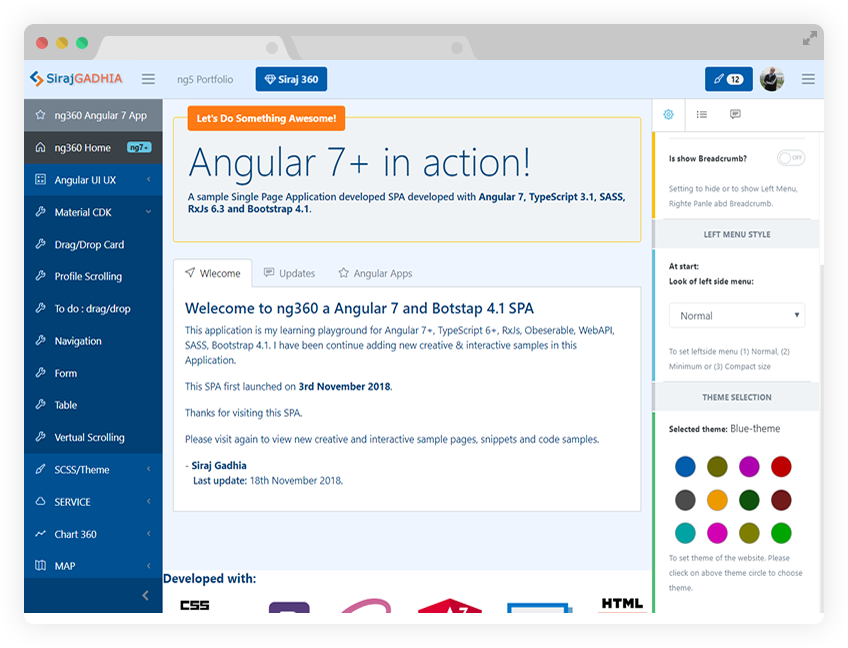
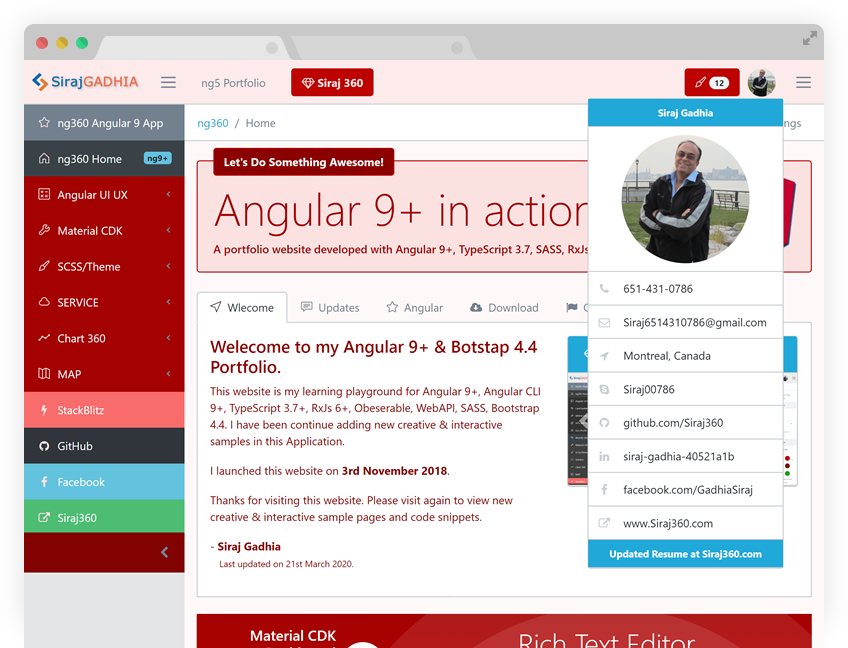
Updated for anagular 9 changes
SirajGadhia.com portfolio updated with anagular 9.

diff --git a/index.html b/index.html
@@ -125,11 +125,14 @@
             <div class="row text-center-mobile">
               <div class="col-md-6">
                 <div class="icon"><i class="pe-7s-magic-wand"></i></div>
-                <h2>Angular 7+ And Material</h2>
-                <p>A sample single page application (SPA) developed with Angular 7+, Material, CDK, SASS and Bootstrap 4+. </p>
+                <h2>Angular 9+ And Material</h2>
+                <p>A sample single page portfolio application (SPA) developed with Angular 9+, Material, CDK, TypeScript, SASS and Bootstrap 4+. </p>
                 <p>Visit this online application to review creative an innovative samples at </br>
                   <a href="http://www.SirajGadhia.com" target="_blank">
                     www.SirajGadhia.com </a>
+                </p>
+                <p>
+                  <a class="btn btn-ghost" href="http://www.SirajGadhia.com" target="_blank">Visit Angular 9+ Portfolio Online</a>
                 </p>
             </div>
               <div class="col-md-6">
@@ -148,14 +151,14 @@
           </div>
           <div class="col-md-6">
             <div class="icon brand-terciary"><i class="pe-7s-rocket"></i></div>
-            <h2>Angular 5+ in action!</h2>
-            <p>A sample single page application developed with Angular 5+, TypeScript, SASS and Bootstrap 4+.</p>
+            <h2>Angular 5.3 in action!</h2>
+            <p>A sample single page portfolio application developed with Angular 5.3, TypeScript, SASS and Bootstrap 4.</p>
             <p>Code snippets/files are at
               <a href="https://gist.github.com/SirajGadhia" target="_blank">https://gist.github.com/SirajGadhia</a>
             </p>
 
             <p>
-              <a class="btn btn-ghost" href="http://www.GadhiaSiraj.com" target="_blank">Visit Angular 5 Online SPA</a>
+              <a class="btn btn-ghost" href="http://www.GadhiaSiraj.com" target="_blank">Visit Angular 5 Online</a>
             </p>
 
           </div>
@@ -170,7 +173,7 @@
             <div class="icon brand-secondary"><i class="pe-7s-id"></i></div>
             <h3>Responsive Web Design</h3>
             <p class="text-gray-light">
-              <b>Wide experiance with:</b> Angular 7-2, TypeScript, SASS, WebAPI, .Net, MVC and VS.
+              <b>Wide experiance with:</b> Angular 2 to 9, TypeScript, SASS, WebAPI, .Net, MVC and VS.
             </p>
             <p>
               <a class="btn btn-ghost" href="http://www.siraj360.com/" target="_blank">Mor Information ...</a>
